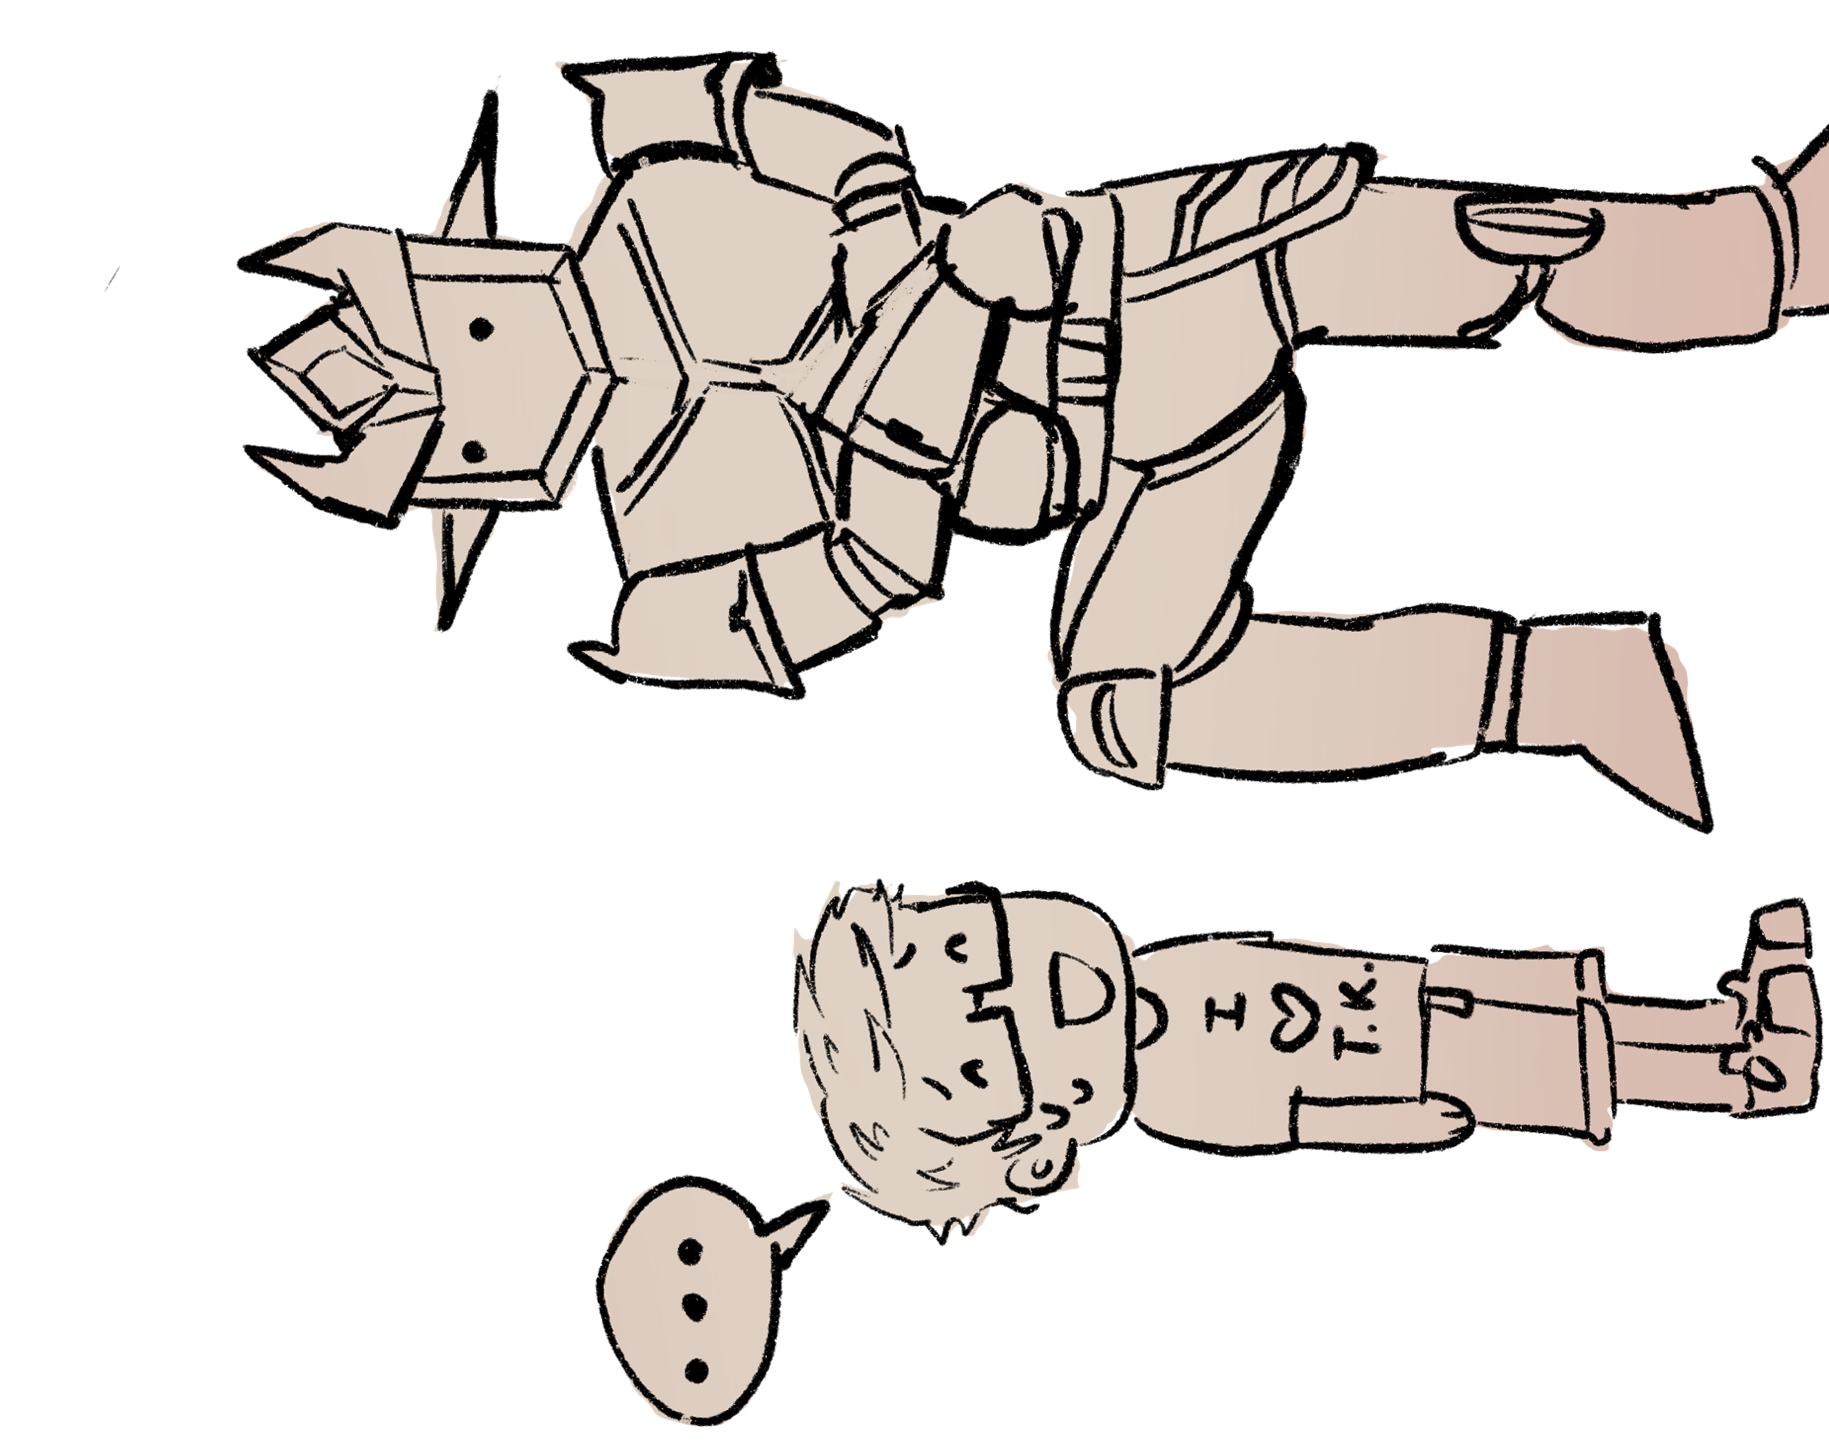
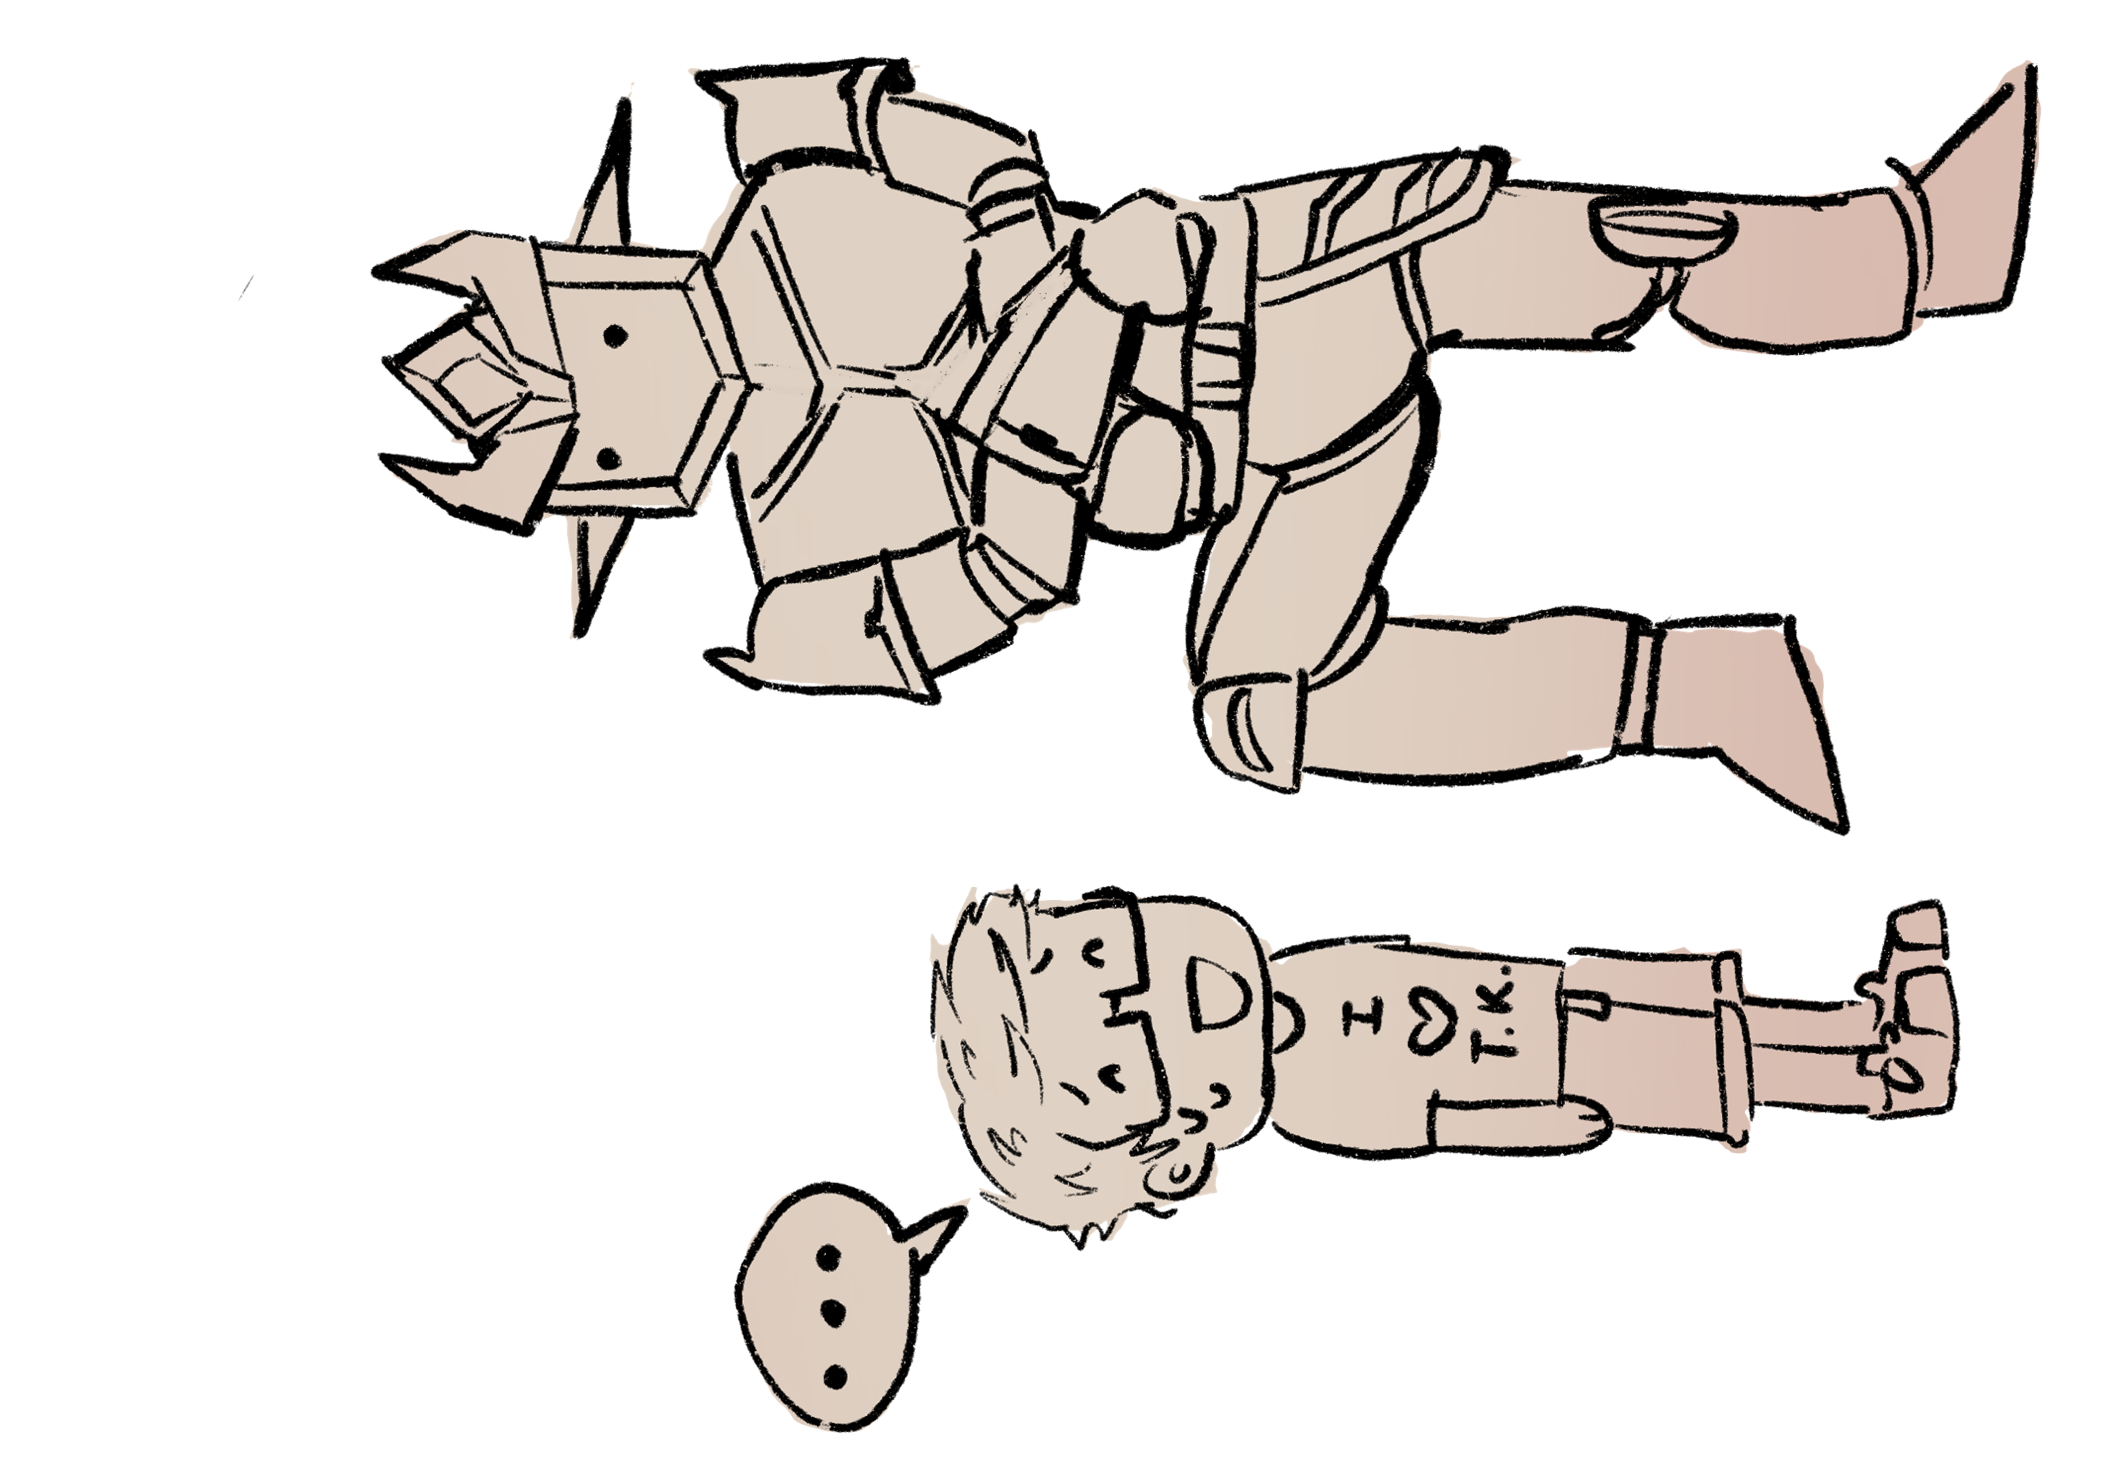
Restore TK's foot

Changed region(s): [[0.1247, 0.031, 1.0, 0.5892], [0.3116, 0.5892, 0.9973, 0.9924]]

diff --git a/apps/2025/src/app/_components/tracks/comic.tsx b/apps/2025/src/app/_components/tracks/comic.tsx
@@ -84,7 +84,7 @@ export default function Comic(props: SVGProps<SVGSVGElement>) {
         <rect
           x="3380.82"
           y="1073"
-          width="2118.62"
+          width="2128.62"
           height="1449.83"
           transform="rotate(89.7527 3401.82 1072)"
           fill="url(#pattern2_381_7569)"
